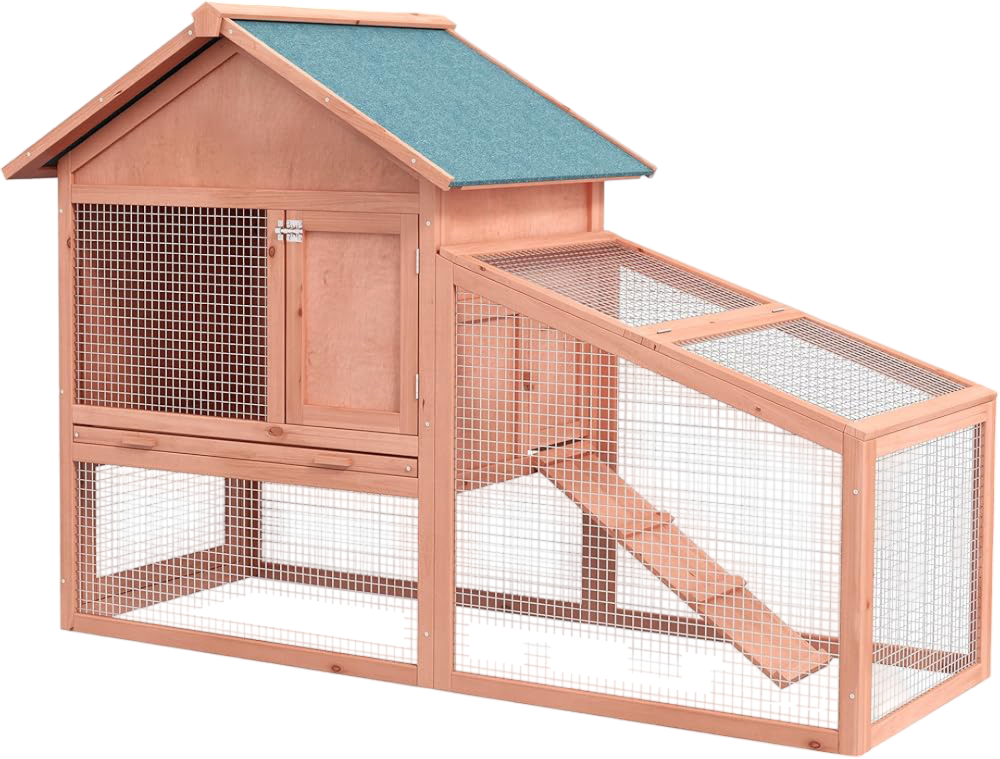
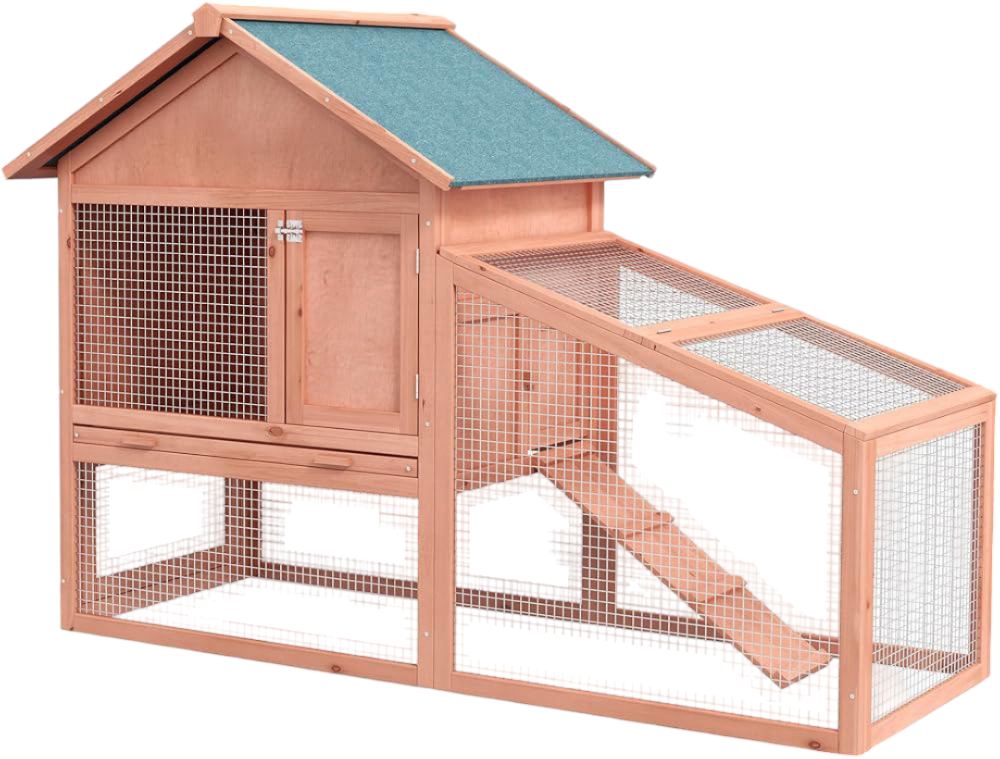
better visuals for product bundles v2 + added png images without backgrounds

diff --git a/petclinic-frontend/src/features/products/components/ProductBundle.css b/petclinic-frontend/src/features/products/components/ProductBundle.css
@@ -1,5 +1,7 @@
 .product-bundle-card {
-  border: 2px solid #4caf50;
+  position: relative;
+  border: 3px solid #4caf50;
+  background-color: #f3fff3;
   padding: 16px;
   margin: 16px;
   width: 300px;
@@ -10,12 +12,13 @@
 .product-bundle-products {
   display: flex;
   flex-wrap: wrap;
-  height: 470px; 
+  height: 500px; 
   overflow-y: auto;
   border: 1px solid black;
   border-radius: 15px;
   scrollbar-width: none;
   margin: 20px 0;
+  background-color: white;
   box-shadow: inset 0 0 10px rgba(0, 0, 0, 0.3);
 }
 
@@ -25,6 +28,26 @@
   align-items: center;
   margin: 8px;
   width: 100%;
+}
+
+.deal-stamp {
+  position: absolute;
+  rotate: 40deg;
+  top: 0px;
+  right: -20px;
+  background-color: #ff0000;
+  color: #ffffff;
+  padding: 5px 20px;
+  font-size: 1em;
+  font-weight: bold;
+  transform: rotate(45deg);
+  box-shadow: 0 4px 6px rgba(0, 0, 0, 0.1);
+  z-index: 1;
+  clip-path: polygon(
+    5% 0%, 95% 0%, 100% 5%, 100% 95%, 95% 100%, 5% 100%, 0% 95%, 0% 5%
+  );
+  transition: transform 0.3s ease, background-color 0.3s ease;
+  animation: pulse 2s infinite;
 }
 
 .product-bundle-item img {
@@ -44,6 +67,12 @@
   color: #4caf50;
 }
 
+.bundle-title {
+  font-size: 1.5em;
+  font-weight: bold;
+  margin-bottom: 8px;
+}
+
 /* Responsive Design */
 @media (max-width: 768px) {
   .product-bundle-card {
@@ -52,4 +81,20 @@
   }
 }
 
-
+@keyframes pulse {
+  0% {
+    transform: rotate(-45deg) scale(1);
+  }
+  25%{
+    transform: rotate(-45deg) scale(1.25);
+  }
+  50% {
+    transform: rotate(-45deg) scale(1.5);
+  }
+  75% {
+    transform: rotate(-45deg) scale(1.25);
+  }
+  100% {
+    transform: rotate(-45deg) scale(1);
+  }
+}

diff --git a/petclinic-frontend/src/features/products/components/ProductBundle.tsx b/petclinic-frontend/src/features/products/components/ProductBundle.tsx
@@ -27,7 +27,8 @@ const ProductBundle: React.FC<ProductBundleProps> = ({ bundle }) => {
 
   return (
     <div className="product-bundle-card">
-      <h3>{bundle.bundleName}</h3>
+      <div className="deal-stamp">DEAL</div>
+      <h3 className="bundle-title">{bundle.bundleName}</h3>
       <p>{bundle.bundleDescription}</p>
       <div className="product-bundle-products">
         {products.map(product => (
@@ -35,6 +36,9 @@ const ProductBundle: React.FC<ProductBundleProps> = ({ bundle }) => {
             <ImageContainer imageId={product.imageId} />
             <p>{product.productName}</p>
             <p>Price: ${product.productSalePrice.toFixed(2)}</p>
+            <p>
+              {products.length - 1 === products.indexOf(product) ? '' : '+'}
+            </p>
           </div>
         ))}
       </div>

diff --git a/petclinic-frontend/src/features/products/ProductsList.tsx b/petclinic-frontend/src/features/products/ProductsList.tsx
@@ -269,7 +269,7 @@ export default function ProductList(): JSX.Element {
       )}
       <div className="main-content">
         <h2>Product Bundles</h2>
-        <div className="grid">
+        <div className="grid product-bundles-grid">
           {bundleList.length > 0 ? (
             bundleList.map((bundle: ProductBundleModel) => (
               <ProductBundle key={bundle.bundleId} bundle={bundle} />

diff --git a/petclinic-frontend/src/features/products/ProductList.css b/petclinic-frontend/src/features/products/ProductList.css
@@ -5,6 +5,14 @@
   margin-top: 20px;
 }
 
+.product-bundles-grid {
+  display: flex;
+  flex-wrap: wrap;
+  justify-content: center; /* Centers the product bundles */
+  gap: 56px;
+  margin: 20px 0;
+}
+
 .card {
   background-color: #fff;
   border: 1px solid #e0e0e0;

diff --git a/products-service/src/main/java/com/petclinic/products/utils/DataLoaderService.java b/products-service/src/main/java/com/petclinic/products/utils/DataLoaderService.java
@@ -157,14 +157,14 @@ public class DataLoaderService implements CommandLineRunner {
                 .bundlePrice(129.99)
                 .build();
 
-        Resource resource1 = new ClassPathResource("images/dog_food.jpg");
+        Resource resource1 = new ClassPathResource("images/dog_food.png");
         Resource resource2 = new ClassPathResource("images/cat_litter.png");
-        Resource resource3 = new ClassPathResource("images/flea_collar.jpg");
-        Resource resource4 = new ClassPathResource("images/bird_cage.jpg");
+        Resource resource3 = new ClassPathResource("images/flea_collar.png");
+        Resource resource4 = new ClassPathResource("images/bird_cage.png");
         Resource resource5 = new ClassPathResource("images/aquarium_filter.png");
-        Resource resource6 = new ClassPathResource("images/horse_saddle.jpg");
-        Resource resource7 = new ClassPathResource("images/rabbit_hutch.jpg");
-        Resource resource8 = new ClassPathResource("images/fish_tank_heater.jpg");
+        Resource resource6 = new ClassPathResource("images/horse_saddle.png");
+        Resource resource7 = new ClassPathResource("images/rabbit_hutch.png");
+        Resource resource8 = new ClassPathResource("images/fish_tank_heater.png");
 
         InputStream inputStream1 = resource1.getInputStream();
         InputStream inputStream2 = resource2.getInputStream();
